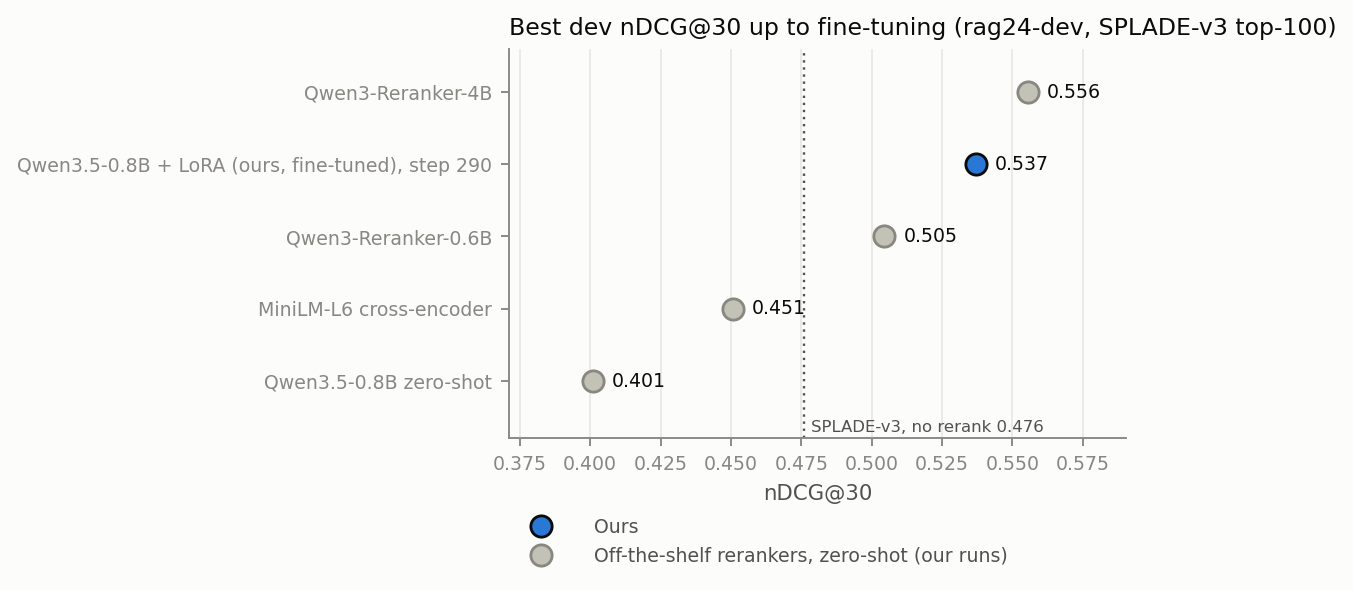
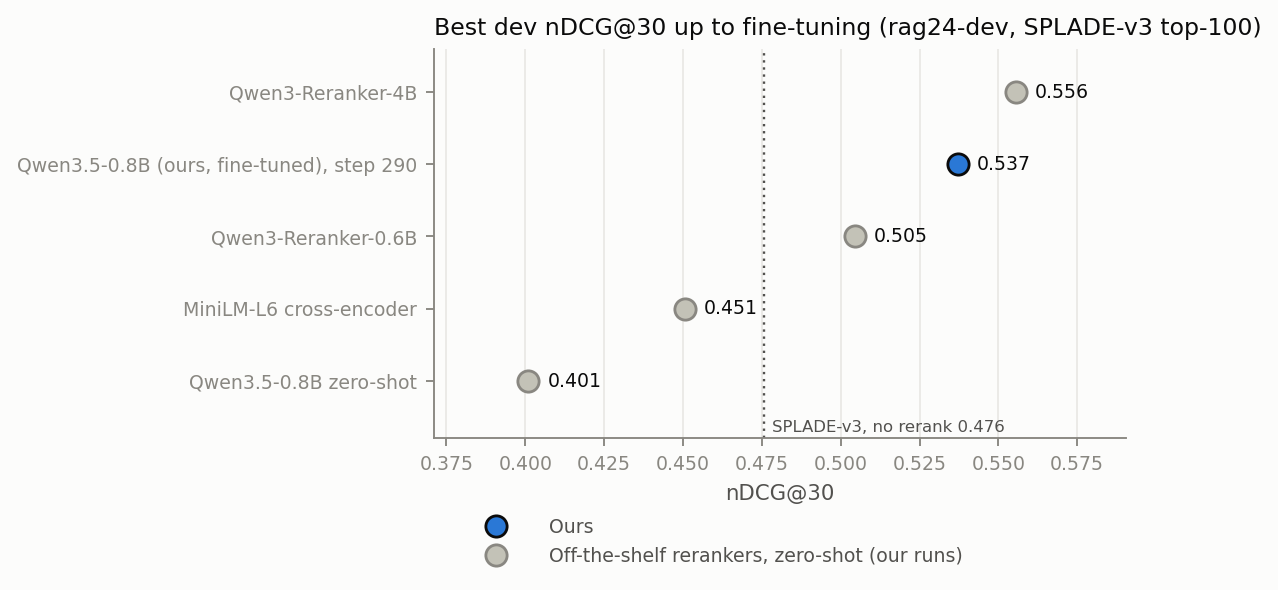
LLM reranking: name our reranker without LoRA in result descriptions
Result-facing text and figure labels now call the fine-tuned reranker
Qwen3.5-0.8B (ours) instead of Qwen3.5-0.8B + LoRA. LoRA stays where the
method or a comparison needs it (setup, LoRA+ runs, weight averaging).

diff --git a/studies/llm_reranking/plot_results.py b/studies/llm_reranking/plot_results.py
@@ -199,9 +199,9 @@ DISTILLED = f"{PLAIN}_distill_alpha0_tau1"
 AUGMENTED = f"{DISTILLED}_group16_unjudged8"
 TEACHER = "ensemble_9b-yes_no_35b-a3b-graded"
 SYSTEMS = {  # dev-selected system of each section: id -> (label, group, source)
-    PLAIN: ("Qwen3.5-0.8B + LoRA (ours, fine-tuned)", "ours", "run"),
-    DISTILLED: ("Qwen3.5-0.8B + LoRA, distilled (ours)", "ours", "run"),
-    AUGMENTED: ("Qwen3.5-0.8B + LoRA, distilled + augmented (ours)", "ours", "run"),
+    PLAIN: ("Qwen3.5-0.8B (ours, fine-tuned)", "ours", "run"),
+    DISTILLED: ("Qwen3.5-0.8B, distilled (ours)", "ours", "run"),
+    AUGMENTED: ("Qwen3.5-0.8B, distilled + augmented (ours)", "ours", "run"),
     TEACHER: ("Qwen3.5-9B yes/no + 35B-A3B graded (teacher)", "zero_shot", "teacher"),
     "rrf_ours+teacher+splade": ("ours + teacher + SPLADE-v3 (RRF)", "ours", "fusion"),
     "qwen35b_ours": ("listwise Qwen3.5-35B-A3B, after ours", "ours", "listwise"),

diff --git a/studies/llm_reranking/README.md b/studies/llm_reranking/README.md
@@ -4,7 +4,7 @@
 
 Takeaways (details in [Findings](#findings)):
 
-- Fine-tuning works: Qwen3.5-0.8B + LoRA reaches 0.650 nDCG@30 on RAG25, on par with the organizers' 32B reranker.
+- Fine-tuning works: our fine-tuned Qwen3.5-0.8B reaches 0.650 nDCG@30 on RAG25, on par with the organizers' 32B reranker.
 - Larger zero-shot Qwen3.5 models gain on dev but not on RAG25, alone or distilled into ours.
 - Fusing them with ours by RRF is best: 0.665, 4th of 47 runs, though not significant.
 - An LLM stage on only the top 30 gets half the fusion gain at a third of the cost (dev).
@@ -152,7 +152,7 @@ Best dev loss: the lowest loss on the frozen dev groups over the checkpoints (st
 ### 4. Dev Results
 
 The best dev nDCG@30 over every checkpoint of every run: `listwise_lr1e-4_pos32_epoch1_cosine_clip1`, step 290 (0.537).
-Outside this section it is called **Qwen3.5-0.8B + LoRA (ours)**.
+Outside this section it is called **Qwen3.5-0.8B (ours)**.
 It lifts Qwen3.5-0.8B from 0.401 to 0.537, above Qwen3-Reranker-0.6B and 0.019 below Qwen3-Reranker-4B,
 at the speed of Qwen3-Reranker-0.6B (0.49 s/query).
 
@@ -386,9 +386,9 @@ Each section sends only its dev-selected systems to RAG25.
 | Qwen3-Reranker-0.6B | 0.585 | 0.536 |
 | Qwen3-Reranker-4B | 0.592 | 0.542 |
 | Qwen3.5-9B yes/no + 35B-A3B graded, zero-shot (teacher, [Teacher Gate](#1-teacher-gate)) | 0.616 | 0.546 |
-| Qwen3.5-0.8B + LoRA (ours, fine-tuned) | 0.650 | 0.557 |
-| Qwen3.5-0.8B + LoRA, distilled (ours, [Distillation](#3-distillation)) | 0.605 | 0.546 |
-| Qwen3.5-0.8B + LoRA, distilled + augmented (ours, [Augmentation](#4-augmentation)) | 0.635 | 0.553 |
+| Qwen3.5-0.8B (ours, fine-tuned) | 0.650 | 0.557 |
+| Qwen3.5-0.8B, distilled (ours, [Distillation](#3-distillation)) | 0.605 | 0.546 |
+| Qwen3.5-0.8B, distilled + augmented (ours, [Augmentation](#4-augmentation)) | 0.635 | 0.553 |
 | **ours + teacher + SPLADE-v3 (RRF, [Fusion](#fusion))** | **0.665** | **0.561** |
 | Qwen3.5-35B-A3B listwise, zero-shot, after ours ([Listwise](#listwise-llm-reranking)) | 0.625 | 0.544 |
 | ours + listwise Qwen3.5-35B-A3B + Qwen3.5-9B (RRF, [Listwise](#listwise-llm-reranking)) | 0.664 | 0.559 |

diff --git a/README.md b/README.md
@@ -61,7 +61,7 @@ Qwen3.5 for all LLM roles:
 
 | Role | Model |
 |---|---|
-| Fine-tuned reranker (ours) | Qwen3.5-0.8B + LoRA |
+| Fine-tuned reranker (ours) | Qwen3.5-0.8B |
 | Teachers and fusion members, pointwise | Qwen3.5-9B (yes/no), Qwen3.5-35B-A3B-GPTQ-Int4 (graded 0–3) |
 | Listwise reranker | Qwen3.5-35B-A3B-GPTQ-Int4 |
 | RAG generator / judge | Qwen3.5-9B / Qwen3.5-35B-A3B-GPTQ-Int4 |
@@ -74,7 +74,7 @@ Qwen3.5 has no reranker model, so Qwen3-Reranker is the purpose-built reference.
 
 Takeaways (details in [Findings](studies/llm_reranking/README.md#findings)):
 
-- Fine-tuning works: Qwen3.5-0.8B + LoRA reaches 0.650 nDCG@30 on RAG25, on par with the organizers' 32B reranker.
+- Fine-tuning works: our fine-tuned Qwen3.5-0.8B reaches 0.650 nDCG@30 on RAG25, on par with the organizers' 32B reranker.
 - Larger zero-shot Qwen3.5 models gain on dev but not on RAG25, alone or distilled into ours.
 - Fusing them with ours by RRF is best: up to 0.665, 4th of 47 runs, though not significant.
 - An LLM stage on only the top 30 gets half the fusion gain at a third of the cost (dev).
@@ -83,9 +83,9 @@ Takeaways (details in [Findings](studies/llm_reranking/README.md#findings)):
 |---|---|---|
 | SPLADE-v3 | 0.596 | 0.539 |
 | SPLADE-v3 → Qwen3-Reranker-4B | 0.592 | 0.542 |
-| SPLADE-v3 → Qwen3.5-0.8B + LoRA (ours, fine-tuned) | 0.650 | 0.557 |
-| SPLADE-v3 → Qwen3.5-0.8B + LoRA, distilled (ours) | 0.605 | 0.546 |
-| SPLADE-v3 → Qwen3.5-0.8B + LoRA, distilled + augmented (ours) | 0.635 | 0.553 |
+| SPLADE-v3 → Qwen3.5-0.8B (ours, fine-tuned) | 0.650 | 0.557 |
+| SPLADE-v3 → Qwen3.5-0.8B, distilled (ours) | 0.605 | 0.546 |
+| SPLADE-v3 → Qwen3.5-0.8B, distilled + augmented (ours) | 0.635 | 0.553 |
 | **SPLADE-v3 → ours + listwise Qwen3.5-35B-A3B + Qwen3.5-9B (RRF)** | **0.664** | **0.559** |
 | *overview* RankQwen3-32B (organizers) | 0.646 | 0.584 |
 
